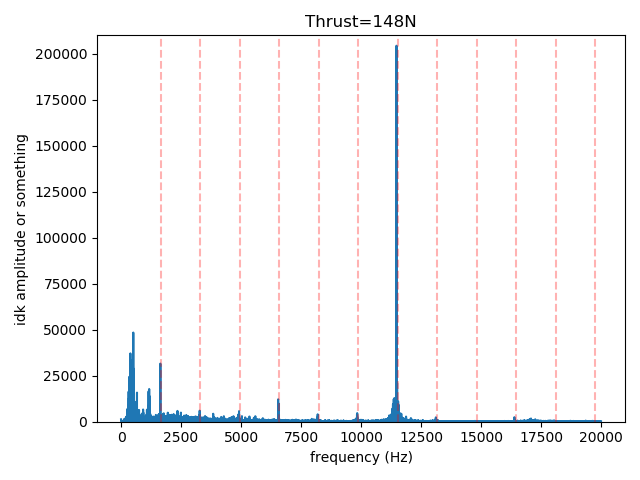
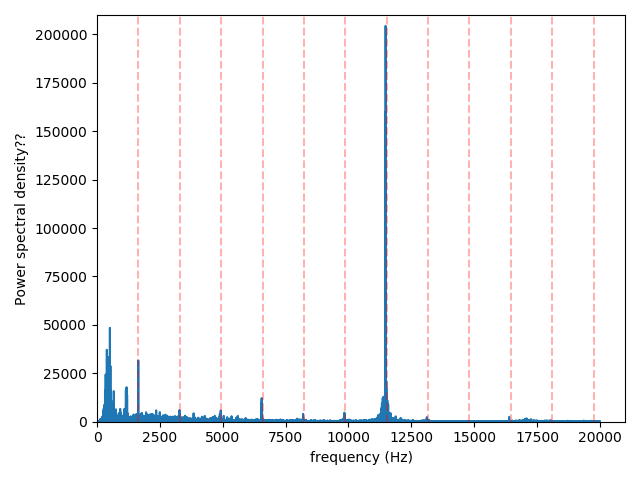
more lab stuff

diff --git a/Engineering/Prop_and_Turbo/Lab 1/Lab1.py b/Engineering/Prop_and_Turbo/Lab 1/Lab1.py
@@ -53,7 +53,7 @@ def microphone_signal(data,title,estimate):
     #plt.plot(data["time"],mic_pressure)
     plt.figure(figure_n)
     figure_n+=1
-    plt.title(title)
+    #plt.title(title)
     plt.plot(freq[L],PSD[L])
 
     number_of_lines=int(freq[L[-1]]/estimate)
@@ -63,8 +63,9 @@ def microphone_signal(data,title,estimate):
         plt.plot([i*estimate,i*estimate],[0,210000],'r--',alpha=0.3)
     #plt.text(0,100000,"dont copy",size=50)
     plt.xlabel("frequency (Hz)")
-    plt.ylabel("idk amplitude or something")
+    plt.ylabel("Power spectral density??")
     plt.ylim(0,210000)
+    plt.xlim(0)
     plt.tight_layout()
     plt.show()
     plt.savefig(f"{title}.png")

diff --git a/Engineering/Fluid Mechanics/stream_func.py b/Engineering/Fluid Mechanics/stream_func.py
@@ -16,7 +16,7 @@ class stream_func():
 a=1
 stream_functions=[]
 theta_values=np.linspace(00.01,np.pi-0.001,100)
-b_list=np.arange(1,5,0.05)
+b_list=np.arange(1,5,0.1)
 for b in b_list:
     stream=stream_func()
     for theta in theta_values:
